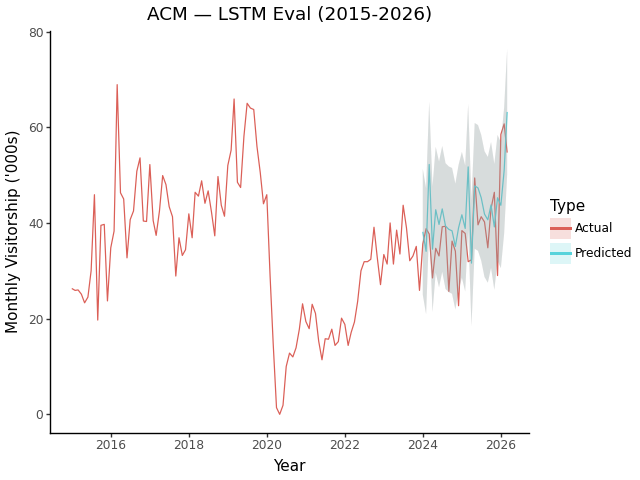
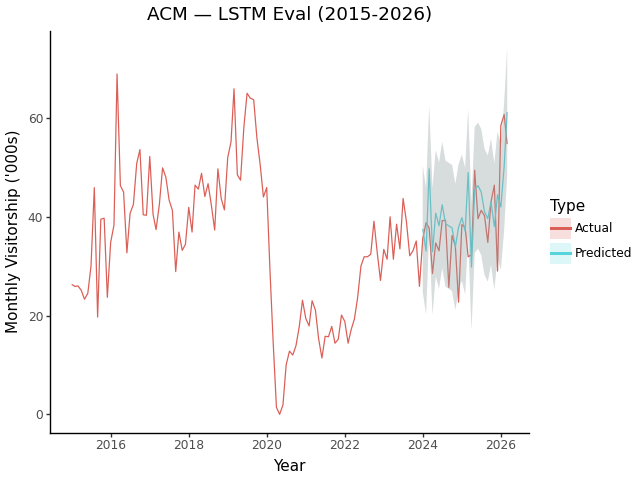
fix(models): stop recursive forecasts diverging
SVR tuned to a degree-5 polynomial kernel on ACM. Fed its own output as
lag features, it raised the input to the fifth power each step and blew
up: 85 at step 7, 2.7e9 at step 10, 1.1e190 at step 12, inf at step 13.
StandardScaler passes the resulting nan through, so the run died one
step later inside SVR.predict with a bare "Input X contains NaN".

Two changes:

- Add bound_prediction() and apply it to every recursive step. A
  non-finite prediction falls back to that month's seasonal mean, and
  the rest are held in [0, 2 * max training value] -- visitorship
  cannot be negative, and a forecast far above anything on record is
  not a forecast. This also covers the LSTM's own recursion loop, which
  bypasses recursive_forecast.

- Drop 'poly' from SVR's kernel search space, leaving linear and rbf.
  Clipping only stops the crash; a diverged forecast pinned at the
  ceiling is still meaningless. An unbounded kernel cannot be recursed,
  so Optuna should not be able to pick one.

Trees were never at risk -- they predict leaf means, so their output is
bounded by the training range by construction.

Note the search-space change affects SVR's eval as well as its predict,
so SVR joins SARIMAX as a model whose 1c-vs-1b delta is not purely the
recursive-forecasting change.

diff --git a/src/models/recursive.py b/src/models/recursive.py
@@ -11,7 +11,29 @@ import numpy as np
 N_LAGS = 12
 
 
-def recursive_forecast(predict_row, test_data, features):
+def bound_prediction(prediction, fallback, upper=None):
+    """Keep one recursive step finite and physically possible.
+
+    A model fed its own output can diverge, and a single overflow to inf or nan
+    poisons the lag features of every later row. Substitute the seasonal mean for
+    a non-finite step, and hold the rest in [0, upper] -- visitorship cannot be
+    negative, and a forecast far above anything on record is not a forecast.
+
+    Args:
+        prediction (float): The model's raw output for this step.
+        fallback (float): Value to use when `prediction` is not finite.
+        upper (float | None): Ceiling; None leaves the step unbounded above.
+
+    Returns:
+        float: The bounded prediction.
+    """
+    if not np.isfinite(prediction):
+        prediction = float(fallback)
+    prediction = max(float(prediction), 0.0)
+    return prediction if upper is None else min(prediction, float(upper))
+
+
+def recursive_forecast(predict_row, test_data, features, upper=None):
     """Forecast one row at a time, feeding each prediction into later rows' lags.
 
     Args:
@@ -20,6 +42,7 @@ def recursive_forecast(predict_row, test_data, features):
         test_data (pd.DataFrame): Future frame carrying `features` and a 'value'
             column. Not mutated; a copy is used.
         features (list[str]): Feature columns, in the order the model was fitted on.
+        upper (float | None): Ceiling for each step, see bound_prediction.
 
     Returns:
         np.ndarray: One prediction per row of `test_data`, in row order.
@@ -28,7 +51,9 @@ def recursive_forecast(predict_row, test_data, features):
     predictions = []
 
     for i in range(len(frame)):
-        prediction = predict_row(frame.loc[[i], features])
+        prediction = bound_prediction(
+            predict_row(frame.loc[[i], features]), frame.loc[i, "monthly_avg"], upper
+        )
         predictions.append(prediction)
         frame.loc[i, "value"] = prediction
 

diff --git a/src/models/lstm.py b/src/models/lstm.py
@@ -7,6 +7,7 @@ from sklearn.preprocessing import MinMaxScaler
 from sklearn.metrics import mean_squared_error, mean_absolute_percentage_error
 
 from config import LSTM_FEATURES
+from src.models.recursive import bound_prediction
 
 # Suppress TensorFlow logging before importing it. 
 # Set back to normal after import to only skip the 2 initialisation messages
@@ -83,16 +84,20 @@ def lstm(data, eval, h):
         test_predict = model.predict(X_test, verbose=0)
     else:
         sequence = features_scaled.copy()
+        ceiling = 2 * data['value'].iloc[:train_size].max()
         scaled_predictions = []
         for step in range(len(sequence) - train_size):
             end = train_size + step
             window = sequence[end - time_steps:end][np.newaxis, ...]
-            scaled_prediction = model.predict(window, verbose=0)[0, 0]
-            scaled_predictions.append(scaled_prediction)
 
             # The two scalers are fitted separately, so round-trip through real
             # units rather than assuming the target and channel 0 share a scale
-            value = target_scaler.inverse_transform([[scaled_prediction]])[0][0]
+            value = target_scaler.inverse_transform(
+                [[model.predict(window, verbose=0)[0, 0]]]
+            )[0][0]
+            value = bound_prediction(value, data['monthly_avg'].iloc[end], ceiling)
+
+            scaled_predictions.append(target_scaler.transform([[value]])[0][0])
             sequence[end, 0] = (
                 value - feature_scaler.data_min_[0]
             ) / feature_scaler.data_range_[0]

diff --git a/src/models/svr.py b/src/models/svr.py
@@ -34,7 +34,9 @@ def support_vec(train_data, test_data, eval, best_params=None):
     if best_params is None:
         def objective(trial, data=train_data, val_size=10):
             # Define hyperparameter search space
-            kernel = trial.suggest_categorical('kernel', ['linear', 'rbf', 'poly'])
+            # No 'poly': an unbounded kernel fed its own output diverges under
+            # recursive forecasting, overflowing within ~13 steps
+            kernel = trial.suggest_categorical('kernel', ['linear', 'rbf'])
             C = trial.suggest_loguniform('C', 1e-3, 1e3)
             epsilon = trial.suggest_loguniform('epsilon', 1e-3, 1)
 
@@ -83,6 +85,7 @@ def support_vec(train_data, test_data, eval, best_params=None):
             lambda row: float(best_model.predict(scaler.transform(row))[0]),
             test_data,
             features,
+            upper=2 * y_train.max(),
         )
     test_data["Forecast"] = forecast
 

diff --git a/src/models/randomforest.py b/src/models/randomforest.py
@@ -65,7 +65,10 @@ def randomforest(train_data, test_data, eval, best_params=None):
         forecast = best_model.predict(test_data[features])
     else:
         forecast = recursive_forecast(
-            lambda row: float(best_model.predict(row)[0]), test_data, features
+            lambda row: float(best_model.predict(row)[0]),
+            test_data,
+            features,
+            upper=2 * train_data[target].max(),
         )
     test_data["Forecast"] = forecast
 

diff --git a/src/models/xgboost_model.py b/src/models/xgboost_model.py
@@ -61,7 +61,10 @@ def xgb(train_data, test_data, eval, best_params=None):
         forecast = best_model.predict(test_data[features])
     else:
         forecast = recursive_forecast(
-            lambda row: float(best_model.predict(row)[0]), test_data, features
+            lambda row: float(best_model.predict(row)[0]),
+            test_data,
+            features,
+            upper=2 * train_data[target].max(),
         )
     test_data["Forecast"] = forecast
 
